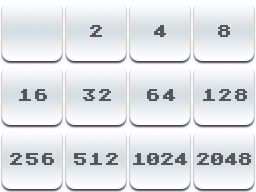
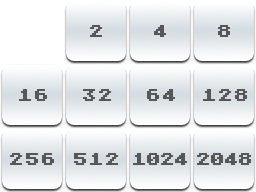
UIをテスト

Changed region(s): [[0.0, 0.0625, 0.25, 0.3438]]

diff --git a/CodeFriendsTest/2048/main.js b/CodeFriendsTest/2048/main.js
@@ -11,66 +11,58 @@ function gameStart(){
 	// ここから
 	//==========
 	
-	scene.backgroundColor = "darkblue";
+	scene.backgroundColor = "gray";
 
 	let my2048 = new Smz2048();
 	my2048.randomPut(2);
 	my2048.randomPut(2);
-	my2048.checkBoard();
+	my2048.consoleBoard();
 
 	scene.on(Event.LEFT_BUTTON_DOWN, ()=>{
 		if(!my2048.slideLeft()) return;
-		my2048.randomPut();
-		my2048.checkBoard();
-		if(my2048.checkGameOver()){
-			console.log("=GAME OVER=");
-			console.log("SCORE:", my2048.getScore());
-		}
-		removeCells();
-		refleshCells();
+		nextCells();
 	});
 
 	scene.on(Event.RIGHT_BUTTON_DOWN, ()=>{
 		if(!my2048.slideRight()) return;
-		my2048.randomPut();
-		my2048.checkBoard();
-		if(my2048.checkGameOver()){
-			console.log("=GAME OVER=");
-			console.log("SCORE:", my2048.getScore());
-		}
-		removeCells();
-		refleshCells();
+		nextCells();
 	});
 
 	scene.on(Event.UP_BUTTON_DOWN, ()=>{
 		if(!my2048.slideUp()) return;
-		my2048.randomPut();
-		my2048.checkBoard();
-		if(my2048.checkGameOver()){
-			console.log("=GAME OVER=");
-			console.log("SCORE:", my2048.getScore());
-		}
-		removeCells();
-		refleshCells();
+		nextCells();
 	});
 
 	scene.on(Event.DOWN_BUTTON_DOWN, ()=>{
 		if(!my2048.slideDown()) return;
-		my2048.randomPut();
-		my2048.checkBoard();
-		if(my2048.checkGameOver()){
-			console.log("=GAME OVER=");
-			console.log("SCORE:", my2048.getScore());
-		}
-		removeCells();
-		refleshCells();
+		nextCells();
 	});
+
+	// ラベル  
+    var scLabel = new Label();
+    scLabel.width = 256;
+    scLabel.x = 0;
+    scLabel.y = 24;
+    scLabel.color = "white";
+    scLabel.textAlign = "center";
+    scLabel.text = "SCORE:" + my2048.getScore();
+    scene.addChild(scLabel);
 
 	// セルグループ
 	var cellGroup = new Group();
 	scene.addChild(cellGroup);
 
 	refleshCells();
+
+	function nextCells(){
+		my2048.randomPut();
+		my2048.consoleBoard();
+		removeCells();
+		refleshCells();
+		if(my2048.checkGameOver()){
+			gameOver();
+		}
+	}
 
 	function refleshCells(){
 		var board = my2048.getBoard();
@@ -79,7 +71,7 @@ function gameStart(){
 		for(var r=0; r<size; r++){
 			for(var c=0; c<size; c++){
 				var x = p * c;
-				var y = p * r;
+				var y = p * r + 64;
 				var n = board[r][c];
 				var frame = (n<=0) ? 0 : Math.log2(n);
 				var cell = new Sprite(64, 64);
@@ -87,17 +79,39 @@ function gameStart(){
 				cell.frame = frame;
 				cell.x = x;
 				cell.y = y;
+				cell.r = r;
+				cell.c = c;
+				cell.opacity = 0;
 				cellGroup.addChild(cell);
+				cell.tl.delay(2);
+				cell.tl.then(function(){
+					this.opacity = 1;
+				});
 			}
 		}
+		// ラベル
+		scLabel.text = "SCORE:" + my2048.getScore();
 	}
 
 	function removeCells(){
-		var board = my2048.getBoard();
-		var size = my2048.getSize();
-		for(var i=size-1; 0<i; i--){
-			cellGroup.childNodes[i].remove();
+		var size = cellGroup.childNodes.length;
+		for(var i=size-1; 0<=i; i--){
+			let cell = cellGroup.childNodes[i];
+			let dist = cell.width;
+			let move = my2048.getMove(cell.r, cell.c);
+			if(move != null){
+				cell.tl.moveBy(dist*move.gC, dist*move.gR, 2);
+			}
+			cell.tl.then(function(){
+				this.remove();
+			});
 		}
+	}
+
+	function gameOver(){
+		console.log("=GAME OVER=");
+		console.log("SCORE:", my2048.getScore());
+		scene.backgroundColor = "darkred";
 	}
 	
 	//==========
@@ -119,7 +133,7 @@ var core;
 var scene;
 window.onload = function(){
 	gameManager = new common.GameManager();
-	core = gameManager.createCore(256, 256);
+	core = gameManager.createCore(256, 320);
 	core.preload(assets);
 	core.onload = function(){gameStart();};
 	core.start();

diff --git a/CodeFriendsTest/2048/smz2048.js b/CodeFriendsTest/2048/smz2048.js
@@ -25,10 +25,12 @@ class Smz2048{
 			[0, 0, 0, 0],
 			[0, 0, 0, 0]
 		];
+		this._moves = [];
 		this.copyBoard();
 	}
 
 	slideLeft(){
+		this._moves = [];
 		this.copyBoard();
 		for(let r=0; r<this._size; r++){
 			this.slideCells(r, 0, 0, 1);
@@ -37,6 +39,7 @@ class Smz2048{
 	}
 
 	slideRight(){
+		this._moves = [];
 		this.copyBoard();
 		for(let r=0; r<this._size; r++){
 			this.slideCells(r, this._size-1, 0, -1);
@@ -45,6 +48,7 @@ class Smz2048{
 	}
 
 	slideUp(){
+		this._moves = [];
 		this.copyBoard();
 		for(let c=0; c<this._size; c++){
 			this.slideCells(0, c, 1, 0);
@@ -53,6 +57,7 @@ class Smz2048{
 	}
 
 	slideDown(){
+		this._moves = [];
 		this.copyBoard();
 		for(let c=0; c<this._size; c++){
 			this.slideCells(this._size-1, c, -1, 0);
@@ -61,7 +66,7 @@ class Smz2048{
 	}
 
 	getSize(){return this._size;}
-	
+
 	getBoard(){return this._board;}
 
 	getScore(){
@@ -73,6 +78,14 @@ class Smz2048{
 			}
 		}
 		return score;
+	}
+
+	getMove(r, c){
+		for(let i=0; i<this._moves.length; i++){
+			let move = this._moves[i];
+			if(move.tR == r && move.tC == c) return move;
+		}
+		return null;
 	}
 
 	slideCells(r, c, dR, dC){
@@ -90,28 +103,30 @@ class Smz2048{
 	}
 
 	browCells(r, c, dR, dC){
-		let nR = r + dR;
-		let nC = c + dC;
-		while(this.isInside(nR) && this.isInside(nC)){
+		let tR = r + dR;
+		let tC = c + dC;
+		while(this.isInside(tR) && this.isInside(tC)){
 			if(this._board[r][c] == 0){
-				if(this._board[nR][nC] != 0){
-					//console.log("swap[", nR, nC, "]->[", r, c, "]");
-					this.swapCells(nR, nC, r, c);
+				if(this._board[tR][tC] != 0){
+					//console.log("swap[", tR, tC, "]->[", r, c, "]");
+					this.swapCells(tR, tC, r, c);
+					this._moves.push({gR:r-tR, gC:c-tC, tR:tR, tC:tC});
 					return true;
 				}
 			}else{
-				if(this._board[r][c] == this._board[nR][nC]){
-					//console.log("combine[", nR, nC, "]->[", r, c, "]");
-					this.combineCells(nR, nC, r, c);
+				if(this._board[r][c] == this._board[tR][tC]){
+					//console.log("combine[", tR, tC, "]->[", r, c, "]");
+					this.combineCells(tR, tC, r, c);
+					this._moves.push({gR:r-tR, gC:c-tC, tR:tR, tC:tC});
 					return false;
 				}
-				if(this._board[nR][nC] != 0){
-					//console.log("pass[", nR, nC, "]->[", r, c, "]");
+				if(this._board[tR][tC] != 0){
+					//console.log("pass[", tR, tC, "]->[", r, c, "]");
 					return false;
 				}
 			}
-			nR += dR;
-			nC += dC;
+			tR += dR;
+			tC += dC;
 		}
 		return false;
 	}
@@ -189,7 +204,7 @@ class Smz2048{
 		return true;
 	}
 
-	checkBoard(){
+	consoleBoard(){
 		let size = this._size;
 		let line = "SCORE:" + this.getScore();
 		while(line.length < 17){
